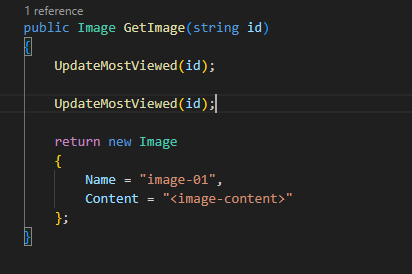
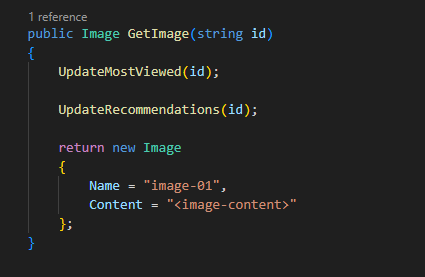
images

diff --git a/src/api/Service/ImageService.cs b/src/api/Service/ImageService.cs
@@ -14,18 +14,30 @@ namespace api
             _busControl = busControl;
         }
 
-        public async Task<Image> GetImage(string id)
+        public Image GetImage(string id)
         {
-            await _busControl.Publish(new ImageViewEvent
-            {
-                ImageID = id,
-            });
+            UpdateMostViewed(id);
+
+            UpdateRecommendations(id);
 
             return new Image
             {
                 Name = "image-01",
                 Content = "<image-content>"
             };
-        }       
+        }
+
+
+        private void UpdateMostViewed(string id)
+        {
+            //Console.WriteLine("UpdateMostViewed" + id);
+            return;
+        }
+
+        private void UpdateRecommendations(string id)
+        {
+            //Console.WriteLine("UpdateMostViewed:" + id);
+        }
+
     }
 }
